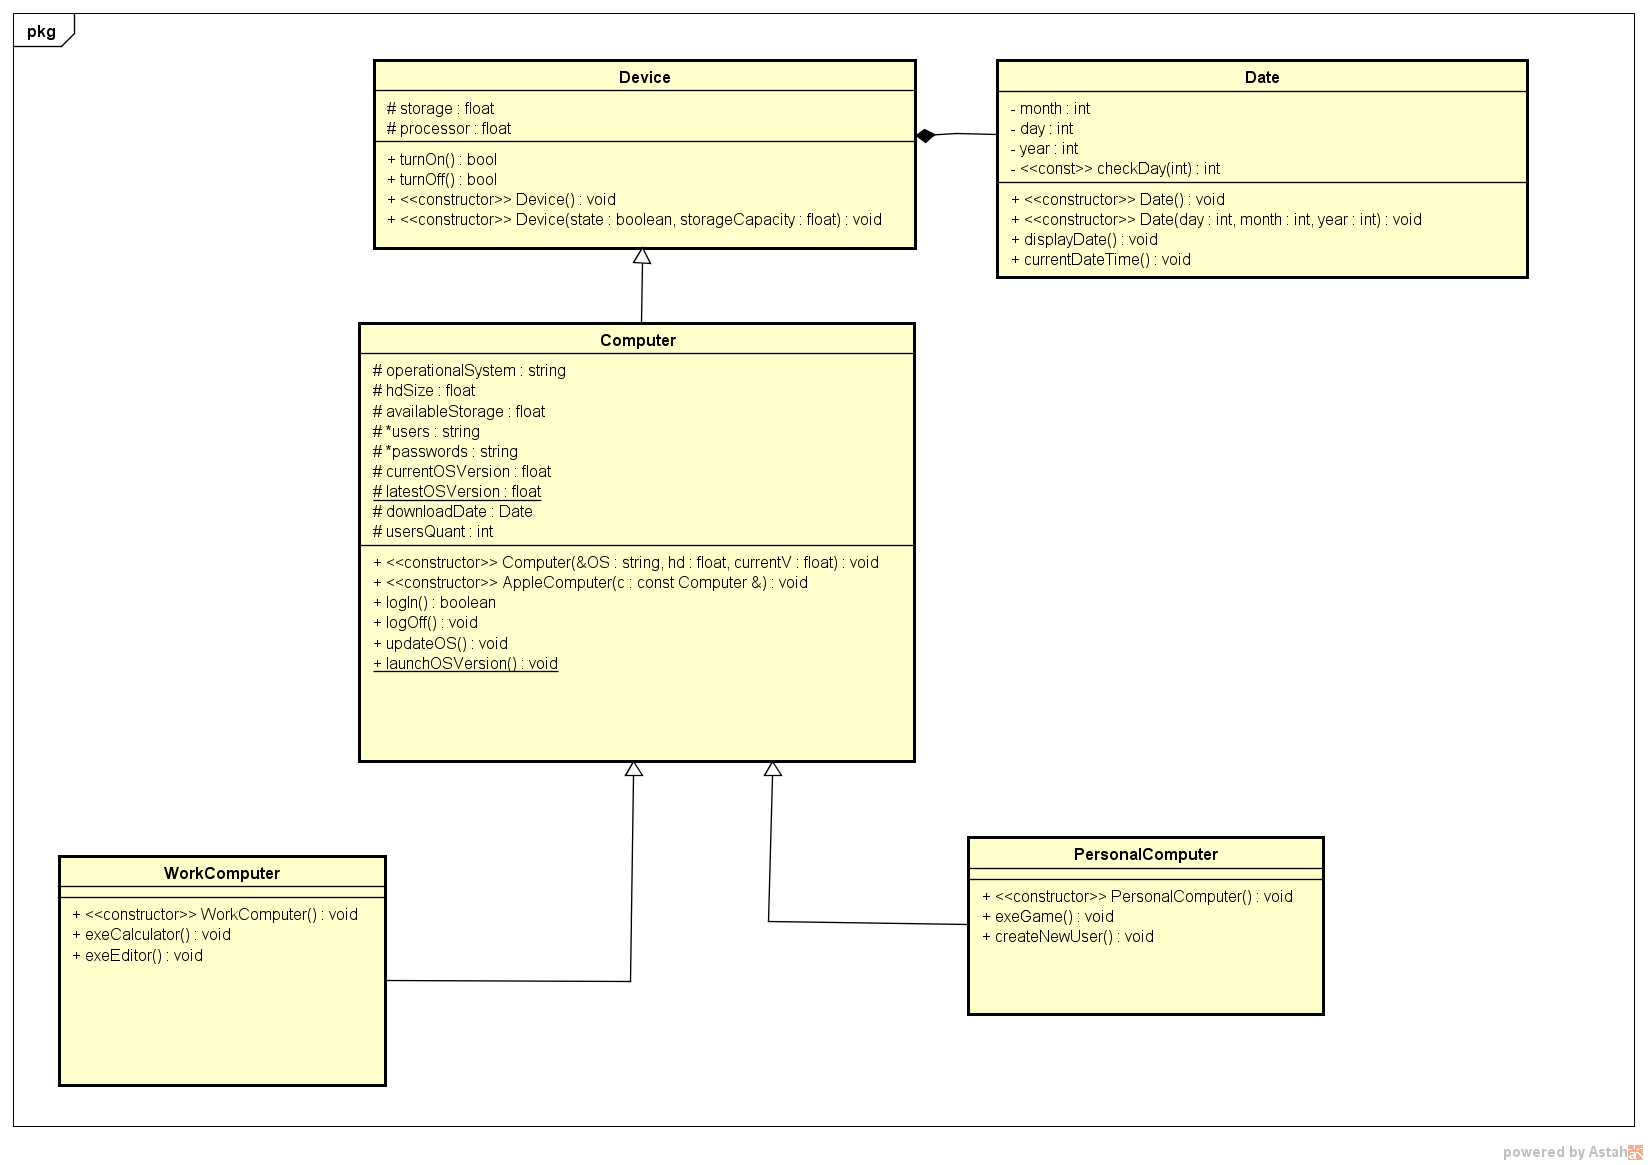
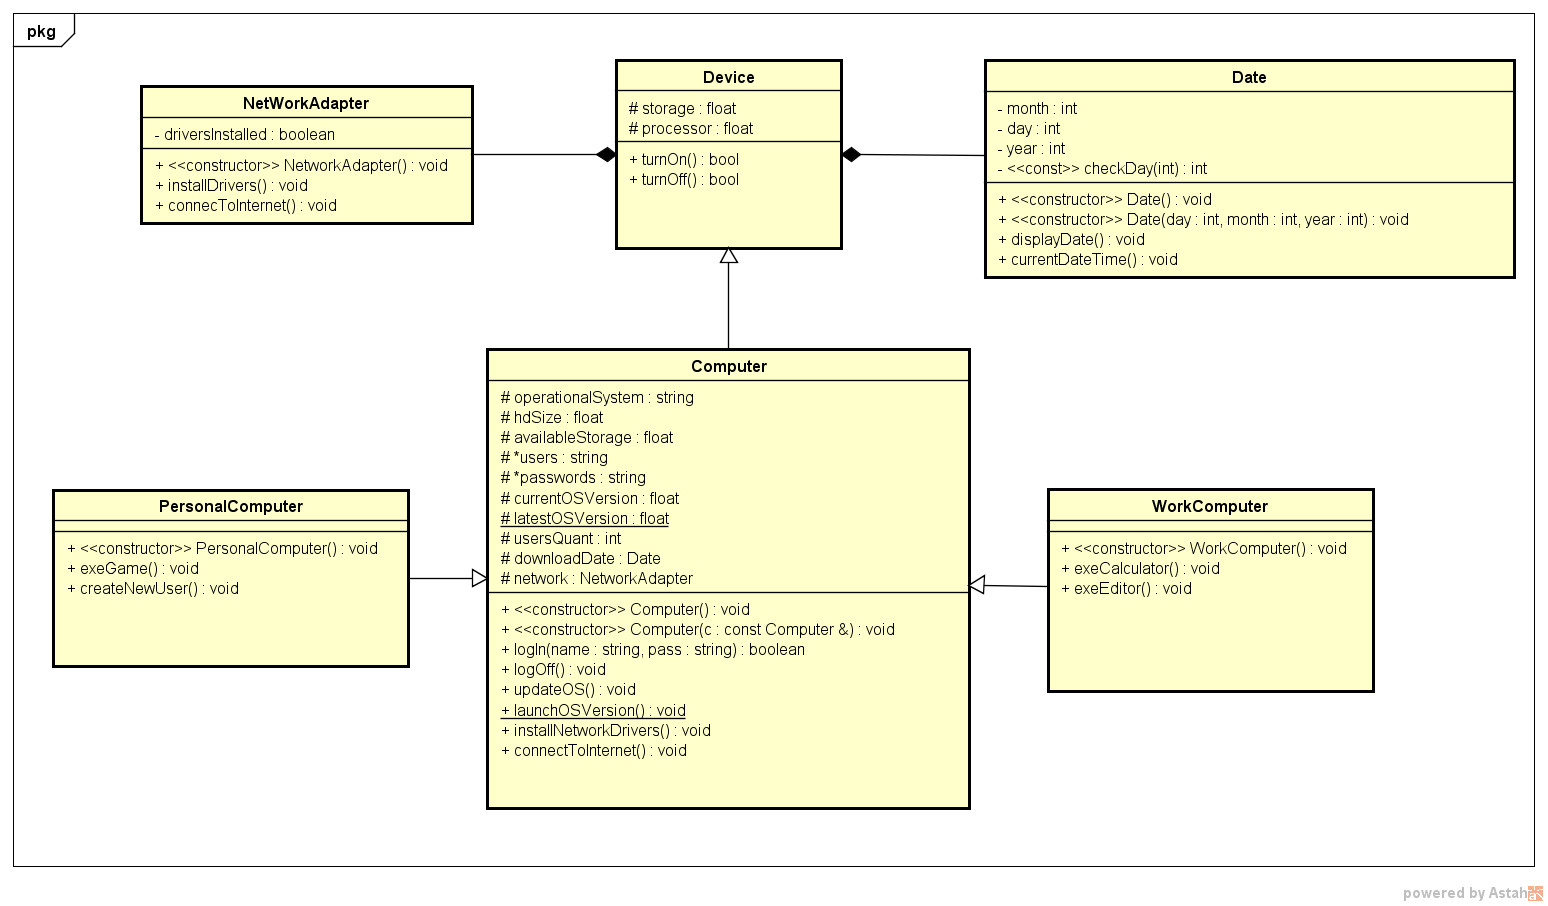
Adicionada classe de composição "NetworkAdapter"

diff --git a/Main.cpp b/Main.cpp
@@ -1,0 +1,106 @@
+#include <iostream>
+#include "Computer.h"
+#include "WorkComputer.h"
+#include "PersonalComputer.h"
+
+using namespace std;
+
+void optionWorkC();
+void optionPersonalC();
+
+int main()
+{
+	int opt;
+	
+	cout << "\n 		Choose a computer: \n\n 1 - Work Computer \n 2 - Personal Computer ";
+	cin >> opt;
+	
+	switch(opt)
+	{
+		case 1:
+			optionWorkC();
+			break;
+			
+		case 2:
+			optionPersonalC();
+			break;
+			
+		default:
+			cout << "\n Please enter a valid option. \n";
+	}
+}
+
+void optionWorkC()
+{
+	int opt;
+    WorkComputer wc;
+    
+	wc.logOff();
+	
+	WorkComputer::launchOSVersion();
+	cout << "\n\n          Welcome          \n ";
+    do{
+         cout << "\n\n 1 - Execute Calculator      3 - Log Off \n 2 - Execute Text Editor    4 - Update Windows \n 0 - Turn Off \n";
+         cin >> opt;
+         switch (opt)
+         {
+                case 1:
+                    wc.exeCalculator();
+                    break;
+                    
+                case 2:
+                    wc.exeEditor();
+                    break;
+                    
+             	case 3:
+    				wc.logOff();
+    				break;
+    				
+    			case 4:
+    				wc.updatedOS();
+    				break;
+    				
+                default:
+                    cout << "\n\n -- Choose an option -- ";
+         }
+    }while (opt != 0);   
+}
+
+void optionPersonalC()
+{
+	int opt;
+    string name, pass;
+    PersonalComputer pc;
+    
+	pc.logOff();
+	
+	PersonalComputer::launchOSVersion();
+    
+    cout << "\n\n          Welcome          \n ";
+    do{
+         cout << "\n\n 1 - Execute Game      3 - Log Off \n 2 - Create new user account    4 - Update Windows \n 0 - Turn Off \n";
+         cin >> opt;
+         switch (opt)
+         {
+                case 1:
+                    pc.exeGame();
+                    break;
+                    
+                case 2:
+                    pc.createNewUser();
+                    break;
+                    
+             	case 3:
+    				pc.logOff();
+    				break;
+    				
+    			case 4:
+    				pc.updatedOS();
+    				break;
+    				
+                default:
+                    cout << "\n\n -- Choose an option -- ";
+         }
+    }while (opt != 0); 
+}
+

diff --git a/Computer.h b/Computer.h
@@ -7,6 +7,7 @@
 
 #include "Device.h"
 #include "Date.h"
+#include "NetworkAdapter.h"
 
 class Computer : public Device 
 {
@@ -24,6 +25,10 @@ class Computer : public Device
 		
 		const Computer &operator=(const Computer &);
 	    bool operator==(const Computer &) const;
+	    
+	    void installNetworkDrivers();
+	    
+	    void connectToInternet();
 		
      protected:
      	string operationalSystem;
@@ -33,8 +38,9 @@ class Computer : public Device
      	string *passwords;
      	float currentOSVersion;
      	static float latestOSVersion;
-     	Date downloadDate;
      	int usersQuant;
+     	Date downloadDate;
+     	NetworkAdapter network;
 };
 
 #endif 

diff --git a/NetworkAdapter.cpp b/NetworkAdapter.cpp
@@ -11,7 +11,7 @@ NetworkAdapter::~NetworkAdapter()
 {
 }
 
-void NetworkAdapter::installDrivers()
+bool NetworkAdapter::installDrivers()
 {
 	if(driversInstalled)
 		cout << "\n Network drivers are already installed.";
@@ -19,3 +19,12 @@ void NetworkAdapter::installDrivers()
 	else
 		driversInstalled = true;
 } 
+
+void NetworkAdapter::connectToInternet()
+{
+	if(driversInstalled)
+		cout << "\n Connected.";
+	
+	else
+		cout << "\n Network drivers not installed.";
+}

diff --git a/NetworkAdapter.h b/NetworkAdapter.h
@@ -1,3 +1,6 @@
+#ifndef NETWORKADAPTER_H
+#define NETWORKADAPTER_H
+
 #include <iostream>
 
 using namespace std;
@@ -9,7 +12,10 @@ class NetworkAdapter
 		~NetworkAdapter();
 		
 		void installDrivers();
+		void connectToInternet();
 		
     private:
-    	bool driversInstalled
+    	bool driversInstalled;
 };
+
+#endif 

diff --git a/Computer.cpp b/Computer.cpp
@@ -142,3 +142,13 @@ bool Computer::operator==(const Computer &comp) const{
 	}
 	return true;
 }
+
+void Computer::installNetworkDrivers()
+{
+	network.installDrivers();
+}
+
+void Computer::connectToInternet()
+{
+	network.connectToInternet();
+}

diff --git a/WorkComputer.h b/WorkComputer.h
@@ -1,6 +1,7 @@
 // Work Computer
 
 #include "Computer.h"
+#include "NetworkAdapter.h"
 
 class WorkComputer : public Computer 
 {	
